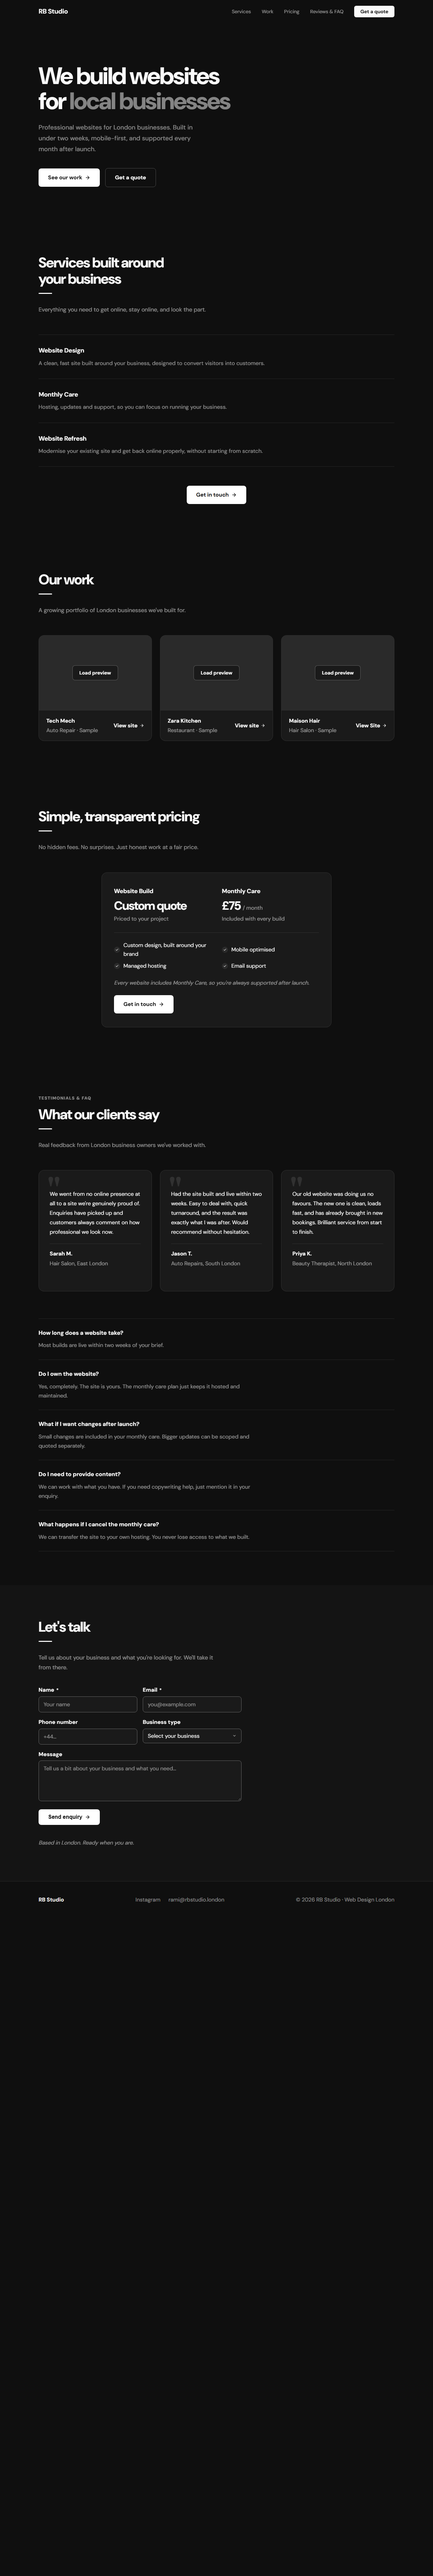
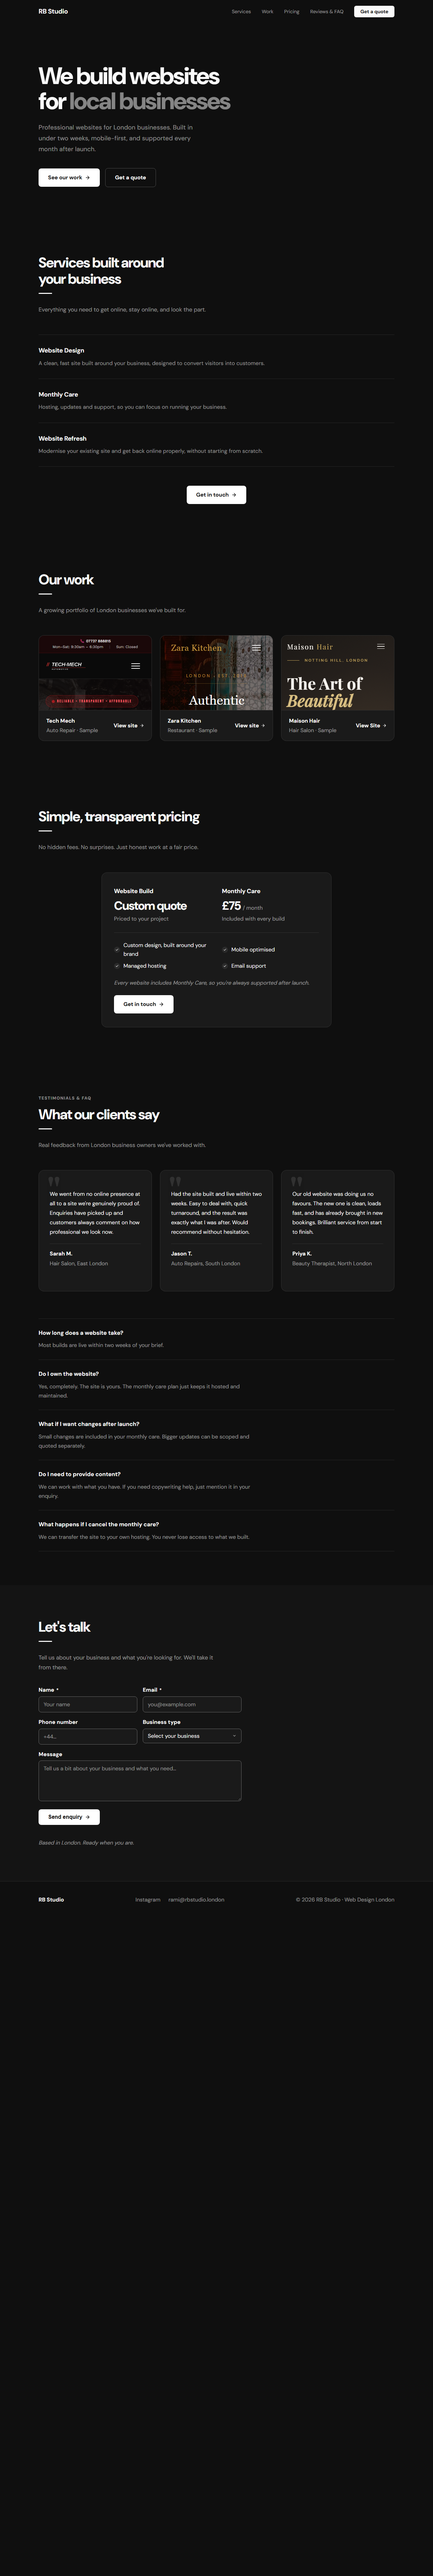
Show portfolio previews as static iframes
Load the three demo sites on page load, remove lazy loading, delete the
Load preview buttons, their script and styles, and set pointer-events to
none on the preview iframes. Refresh renders.

Changed region(s): [[0.0938, 0.2183, 0.8125, 0.2807]]

diff --git a/index.html b/index.html
@@ -529,6 +529,7 @@
       width: 100%;
       height: 100%;
       border: none;
+      pointer-events: none;
     }
 
     .work-card-footer {
@@ -539,27 +540,6 @@
       border-top: 1px solid var(--border);
     }
 
-    .preview-load {
-      position: absolute;
-      inset: 0;
-      margin: auto;
-      height: 44px;
-      width: fit-content;
-      padding: 0 20px;
-      background: var(--card-bg);
-      color: var(--text);
-      border: 1px solid var(--border-strong);
-      border-radius: 8px;
-      font: inherit;
-      font-size: 0.9rem;
-      font-weight: 600;
-      cursor: pointer;
-      transition: background 0.2s ease;
-    }
-
-    .preview-load:hover {
-      background: var(--accent-tint);
-    }
 
     .work-card-label {
       font-size: 1rem;
@@ -1259,8 +1239,7 @@
       <div class="work-grid">
         <div class="work-card fade-in fade-in-delay-1">
           <div class="work-card-preview">
-            <iframe data-src="https://ramibahr.github.io/tech-mech-demo/" title="Tech Mech Demo" loading="lazy"></iframe>
-            <button type="button" class="preview-load">Load preview</button>
+            <iframe src="https://ramibahr.github.io/tech-mech-demo/" title="Tech Mech Demo"></iframe>
           </div>
           <div class="work-card-footer">
             <div>
@@ -1272,8 +1251,7 @@
         </div>
         <div class="work-card fade-in fade-in-delay-2">
           <div class="work-card-preview">
-            <iframe data-src="https://ramibahr.github.io/zara-kitchen-demo/" title="Zara Kitchen Demo" loading="lazy"></iframe>
-            <button type="button" class="preview-load">Load preview</button>
+            <iframe src="https://ramibahr.github.io/zara-kitchen-demo/" title="Zara Kitchen Demo"></iframe>
           </div>
           <div class="work-card-footer">
             <div>
@@ -1285,8 +1263,7 @@
         </div>
         <div class="work-card fade-in fade-in-delay-3">
           <div class="work-card-preview">
-            <iframe data-src="https://ramibahr.github.io/maison-hair-demo/" title="Maison Hair Demo" loading="lazy"></iframe>
-            <button type="button" class="preview-load">Load preview</button>
+            <iframe src="https://ramibahr.github.io/maison-hair-demo/" title="Maison Hair Demo"></iframe>
           </div>
           <div class="work-card-footer">
             <div>
@@ -1551,15 +1528,6 @@
       });
     });
     ctaObserver.observe(contactSection);
-
-    document.querySelectorAll('.preview-load').forEach(btn => {
-      btn.addEventListener('click', () => {
-        const frame = btn.parentElement.querySelector('iframe');
-        frame.src = frame.dataset.src;
-        btn.remove();
-      });
-    });
-
     document.querySelectorAll('#hero .fade-in').forEach(el => {
       setTimeout(() => el.classList.add('visible'), 100);
     });
